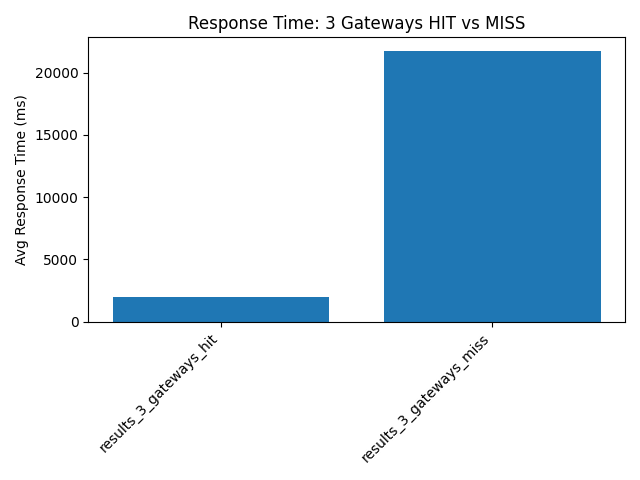
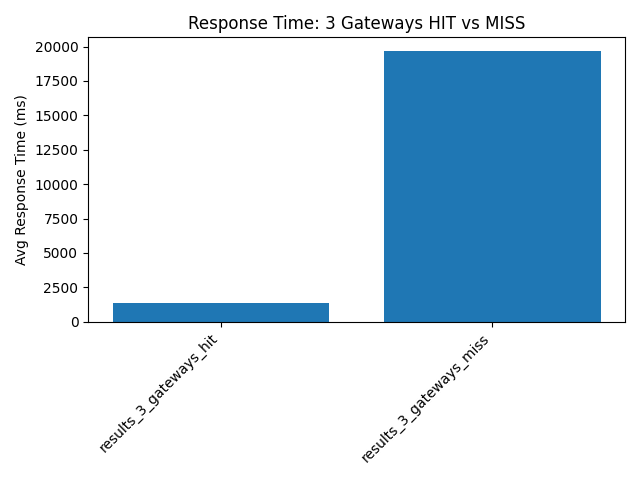
Lab 4 - 1001326848 - Improve testing - using 2 diferent routes

diff --git a/laboratories/laboratory_4/1001326848/tests/load_test.py b/laboratories/laboratory_4/1001326848/tests/load_test.py
@@ -1,5 +1,6 @@
 from locust import HttpUser, task, between, events
 import uuid
+import random
 
 JWT_TOKEN = "Bearer eyJhbGciOiJIUzI1NiIsInR5cCI6IkpXVCJ9.eyJ1c2VybmFtZSI6InVzZXIxIn0.xMpiGanjLuT9-P3BXbsI6pKa8BB2suAXkxltSwrGFOc"
 
@@ -18,9 +19,11 @@ class CachingUser(HttpUser):
         self.mode = self.environment.parsed_options.mode
 
     @task
-    def get_data(self):
+    def get_data_or_process(self):
+        endpoint = random.choice(["/data", "/process"])
+
         if self.mode == "miss":
             key = str(uuid.uuid4())[:8]
-            self.client.get(f"/data?key={key}", headers=self.headers)
+            self.client.get(f"{endpoint}?key={key}", headers=self.headers)
         else:
-            self.client.get("/data", headers=self.headers)
+            self.client.get(endpoint, headers=self.headers)

diff --git a/laboratories/laboratory_4/1001326848/apps/microservice/app.py b/laboratories/laboratory_4/1001326848/apps/microservice/app.py
@@ -1,17 +1,15 @@
 from flask import Flask, jsonify
+import time
 
 app = Flask(__name__)
 
 
 @app.route("/process", methods=["GET"])
 def process():
+    # Simulate 50 ms latency
+    time.sleep(0.05)
     return jsonify({"message": "Business logic executed"}), 200
 
 
 if __name__ == "__main__":
-    app.run(
-        host="0.0.0.0",
-        port=5000,
-        debug=False,
-        threaded=True
-    )
+    app.run(host="0.0.0.0", port=5000, debug=False, threaded=True)

diff --git a/laboratories/laboratory_4/1001326848/tests/generate_graphs.py b/laboratories/laboratory_4/1001326848/tests/generate_graphs.py
@@ -29,8 +29,8 @@ def analyze_stats_file(path):
     df = df[df['Name'].str.startswith('/')]
     df['endpoint'] = df['Name'].str.split('?').str[0]
 
-    # Filter /data endpoint
-    data_rows = df[df['endpoint'] == '/data']
+    # Filter /data and /process endpoints
+    data_rows = df[df['endpoint'].isin(['/data', '/process'])]
     if data_rows.empty:
         return None
 

diff --git a/laboratories/laboratory_4/1001326848/README.md b/laboratories/laboratory_4/1001326848/README.md
@@ -31,6 +31,8 @@ The main objectives of this lab are:
 
 During this lab, we created a distributed architecture using Docker Compose to simulate an environment with multiple API Gateway instances and a caching mechanism. Locust was used to apply load testing scenarios and gather performance metrics.
 
+Each virtual user randomly accesses either the `/data` or `/process` endpoints during the test runs.
+
 In addition to the main objectives, we:
 
 - Tuned services using Gunicorn for production-grade server management.
@@ -57,6 +59,19 @@ The architecture includes the following folders and components:
 - **database/**: Simulated database for slow-response scenarios.
 
 - **tests/**: Contains load testing scripts and report generators.
+
+---
+## Architecture diagram
+
+```mermaid
+graph TD;
+    A[Client] -->|Requests| B[Load Balancer]
+    B -->|Routes| C[API Gateway]
+    C -->|Search data| D[Database service]
+    C -->|Execute logic| E[Microservice]
+    C -->|Cache response| I[Cache]
+    C -->|Async long logic| F[Worker]
+```
 
 ---
 ## Docker Services
@@ -93,7 +108,7 @@ The architecture includes the following folders and components:
 | `/longtask` | Sends task to background worker; protected and asynchronous. |
 
 
-The `/data` route is used extensively during performance testing.
+Both `/data` and `/process` routes are accessed randomly during load testing.
 
 ---
 ## Testing Scripts
@@ -133,6 +148,8 @@ This command runs:
 
 Warm-up steps with low traffic (10 users, 10 seconds) are included before each scenario.
 
+Note: During the tests, users alternate randomly between `/data` and `/process` endpoints to simulate realistic load distribution.
+
 ---
 ## Local Results
 
@@ -165,20 +182,20 @@ By comparing these two scenarios under different configurations (e.g., 1 vs. 3 g
 The following graphs compare system performance when using one versus three API Gateway instances under **cache miss** conditions. As expected, adding more gateways slightly increases throughput and slightly reduces latency, but the overall gain is marginal without caching.
 
 #### Average Response Time
-![Response Time](/assets/rt_1v3_miss.png)
+![Response Time](assets/rt_1v3_miss.png)
 
 #### Requests per Second (Throughput)
-![Throughput](/assets/th_1v3_miss.png)
+![Throughput](assets/th_1v3_miss.png)
 
 ### Response Time and Throughput: Cache Hit vs. Miss (3 Gateways)
 
 This comparison demonstrates the dramatic improvement introduced by caching. With cache hits, the system avoids database and microservice calls, leading to response times up to 10x faster and significantly higher throughput.
 
 #### Average Response Time
-![Response Time](/assets/rt_3_hit_vs_miss.png)
+![Response Time](assets/rt_3_hit_vs_miss.png)
 
 #### Requests per Second (Throughput)
-![Throughput](/assets/th_3_hit_vs_miss.png)
+![Throughput](assets/th_3_hit_vs_miss.png)
 
 
 The following summary highlights key trends:
